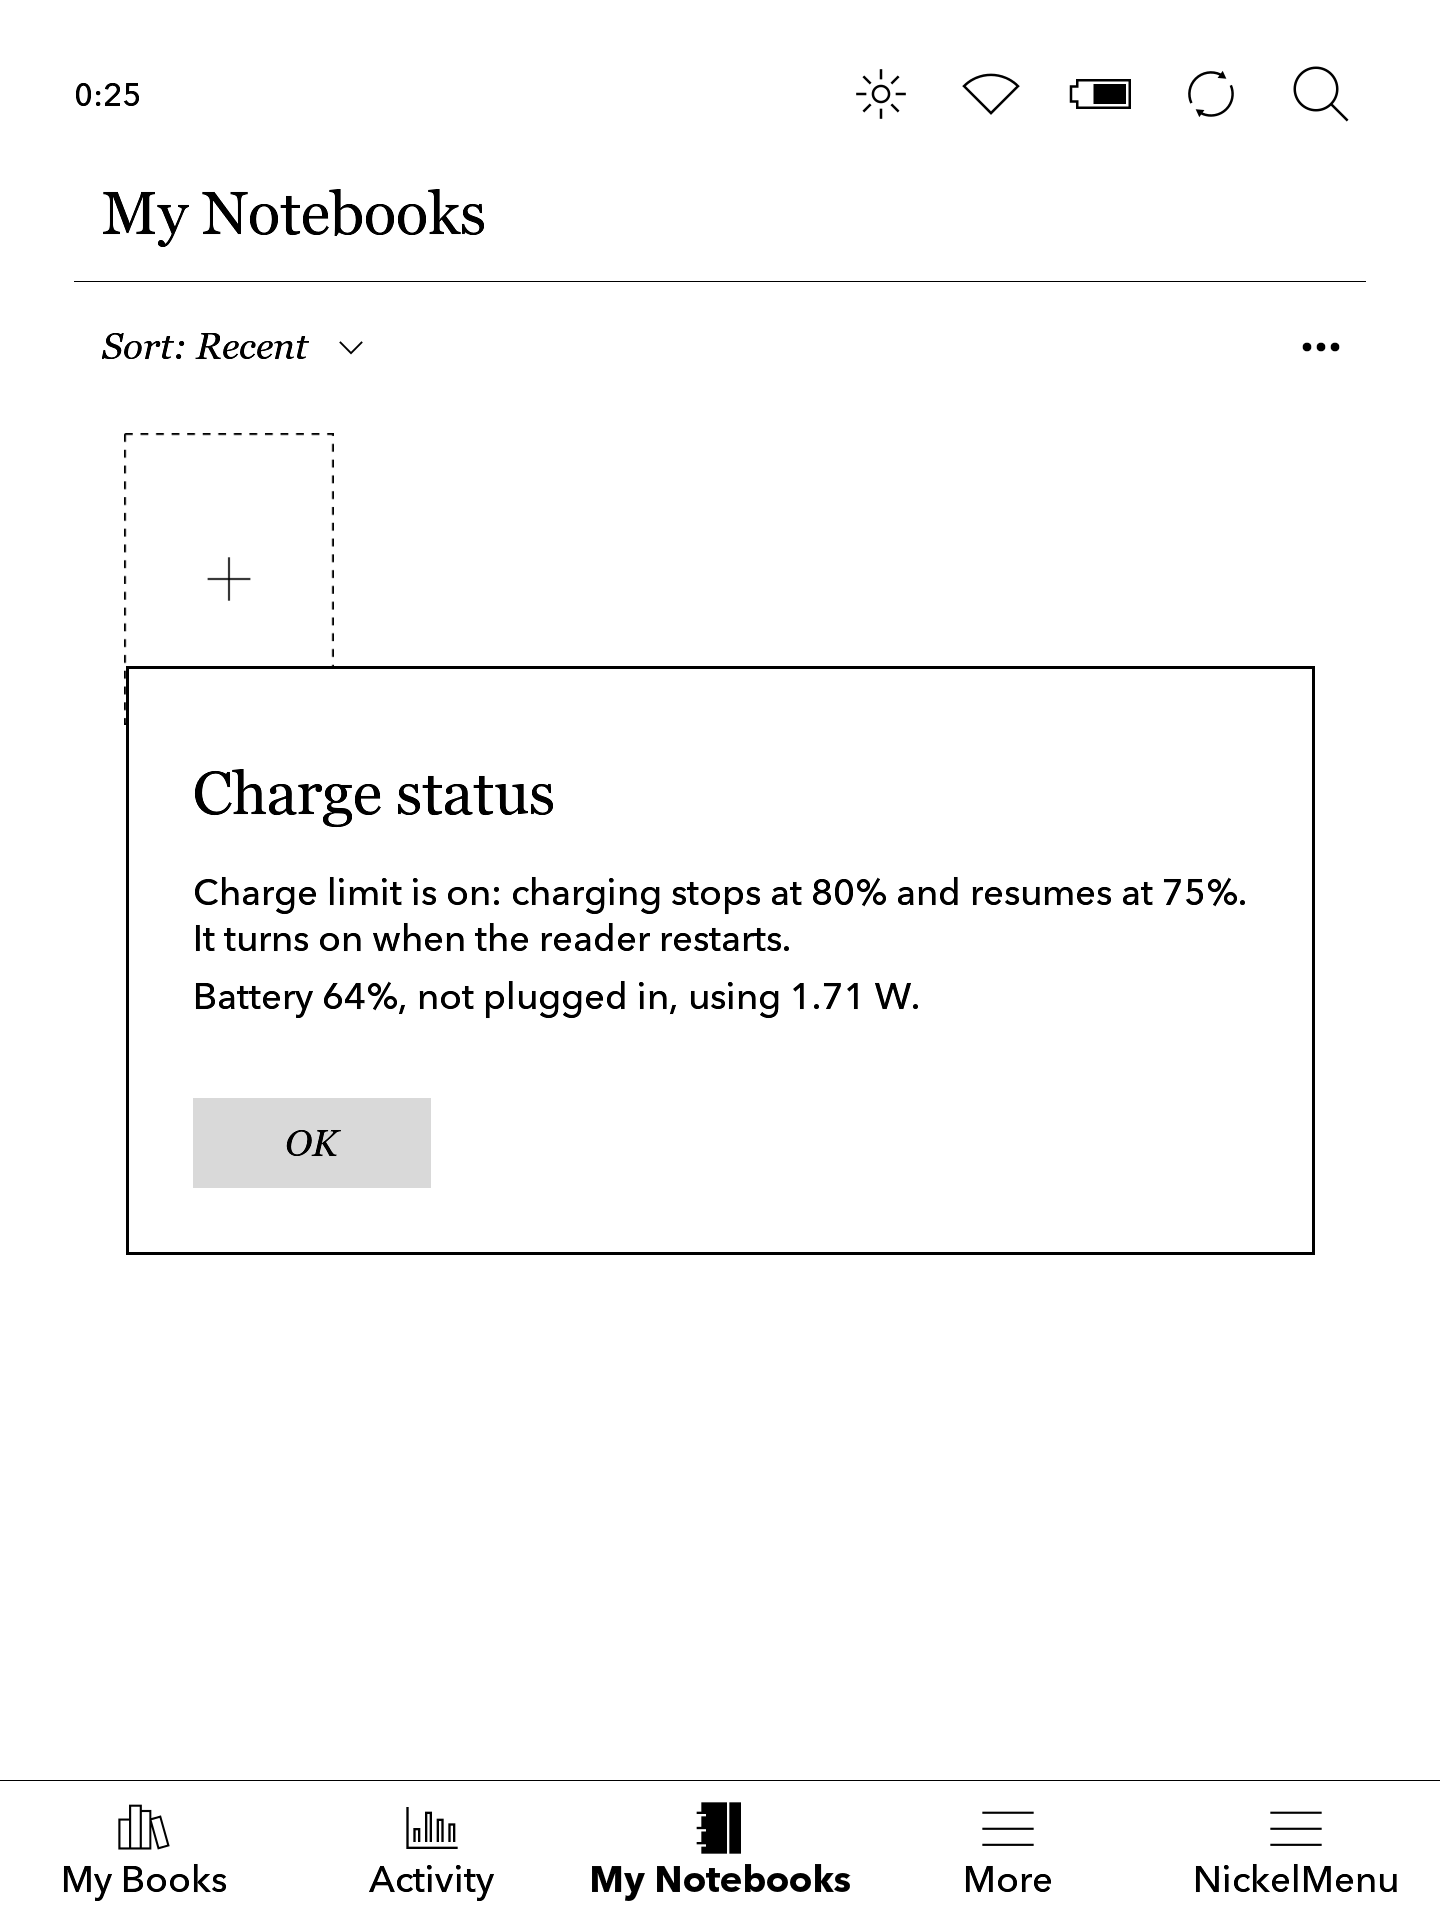
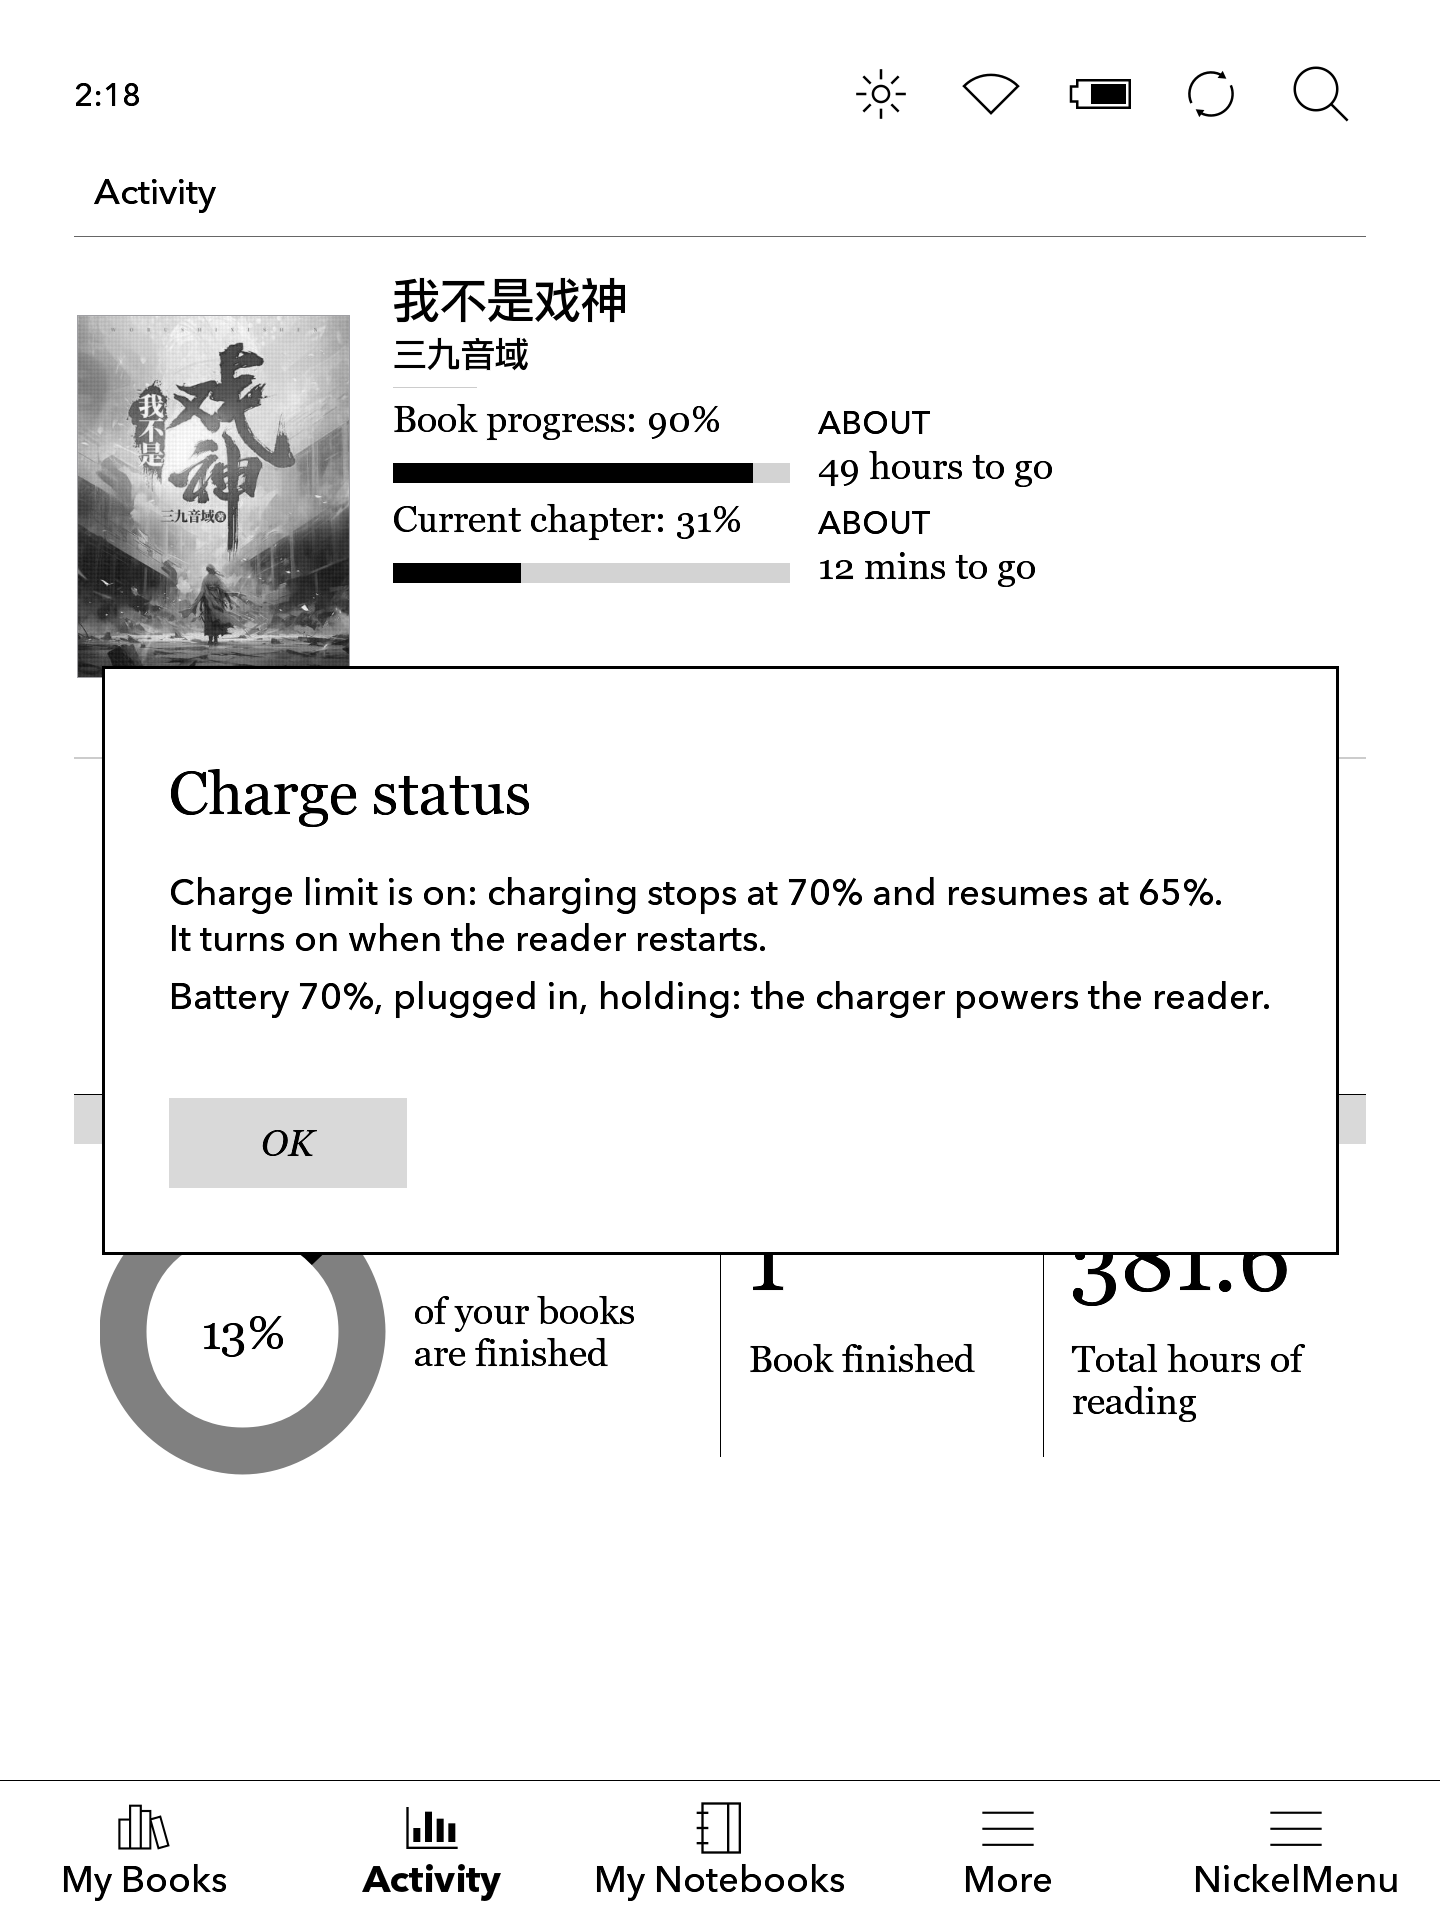
chore: prepare v1.0.0 release

diff --git a/.github/release-notes/v1.0.0.md b/.github/release-notes/v1.0.0.md
@@ -1,0 +1,31 @@
+## Charge Limit v1.0.0
+
+First public release of Charge Limit.
+
+Charge Limit stops an e-reader's battery from charging past a limit (80% by default) while it's plugged in. At the limit, the reader runs from the charger instead of the battery, and charging resumes 5% lower. It works with the reader's own software: no KOReader needed.
+
+### Features
+
+* Stops charging at 70, 80 or 90%, and resumes 5% lower
+* Runs the reader from the charger while the battery holds its level
+* Full charge once, until the charger is next unplugged
+* Works while the reader sleeps, and starts by itself after a restart
+* Can be turned off, or set to stay off after restarts
+* Charging status and settings on the reader: NickelMenu items on a Kobo, an app on a Kindle
+* Charge diagnostics: a report naming the power chip and its driver, for support requests
+* Uninstalls itself completely, switching charging back on
+
+### Tested configuration
+
+* Kobo Sage (ROHM BD71828), firmware 4.38, with NickelMenu
+* Kindle Paperwhite 11th generation (ROHM BD71828), firmware 5.19.2, jailbroken
+
+Other readers and firmware versions have not been tested yet. On a reader it can't control, Charge Limit leaves charging alone; **Charge diagnostics** saves a report that helps add support.
+
+### Installation
+
+**Kobo:** download `charge-limit-1.0.0-kobo.zip`, extract it, and copy `KoboRoot.tgz` into the `.kobo` folder on your Kobo. Eject, and the Kobo installs it and restarts.
+
+**Kindle:** download `charge-limit-1.0.0-kindle.zip` and extract it. Copy `chargelimit.sh` into the Kindle's `documents` folder and the `chargelimit` folder into its `extensions` folder. Then open **Charge Limit** from the library and tap **Install**.
+
+See the README for full installation, usage, update and uninstall instructions.
